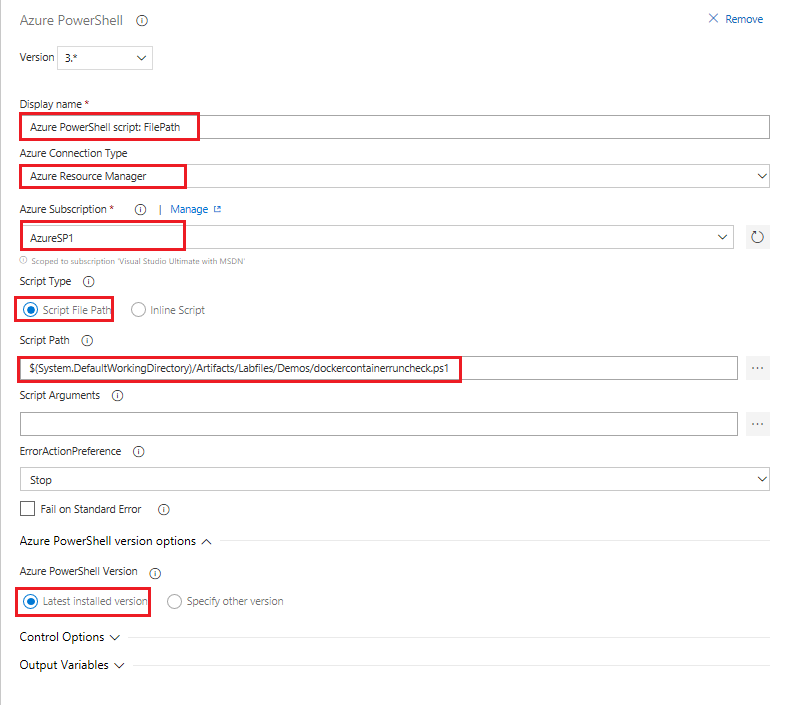
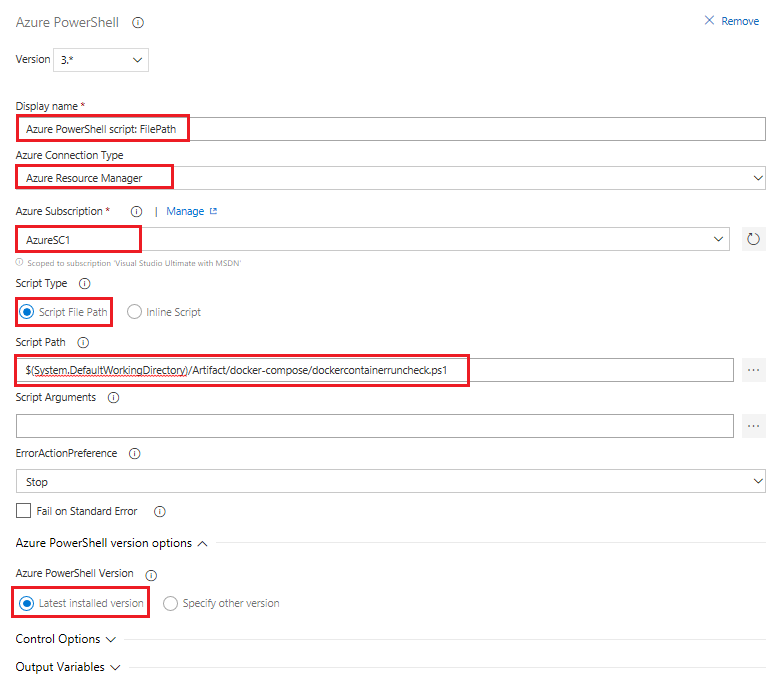
updated container CD lab steps and images

diff --git a/_posts/2018-01-08-200.4x-ConfigMgmt-CDwithWindowsContainersandVSTS.md b/_posts/2018-01-08-200.4x-ConfigMgmt-CDwithWindowsContainersandVSTS.md
@@ -591,8 +591,8 @@ Now we will create a release pipeline to deploy our newly built application
     - **Display name**: Azure PowerShell script: FilePath
     - **Azure Connection Type**: Azure Resource Manager
     - **Azure Subscription**: < Your Azure Subscription >
-    - **Script Type**: script file path
-    - **Script Path**: < click the ellipsis button at the end of the box and in the artifacts point to labfiles\labs\docker-compose.yml >
+    - **Script Type**: Script File path
+    - **Script Path**: < click the ellipsis button at the end of the box and in the artifacts point to **Artifact/docker-compose/dockercontainerruncheck.ps1** >
     - **Azure Powershell Version**: Latest installed version
  
     ![](../assets\cdwithcontainersandazdevops-jan2018/releasepipeline10.png)
